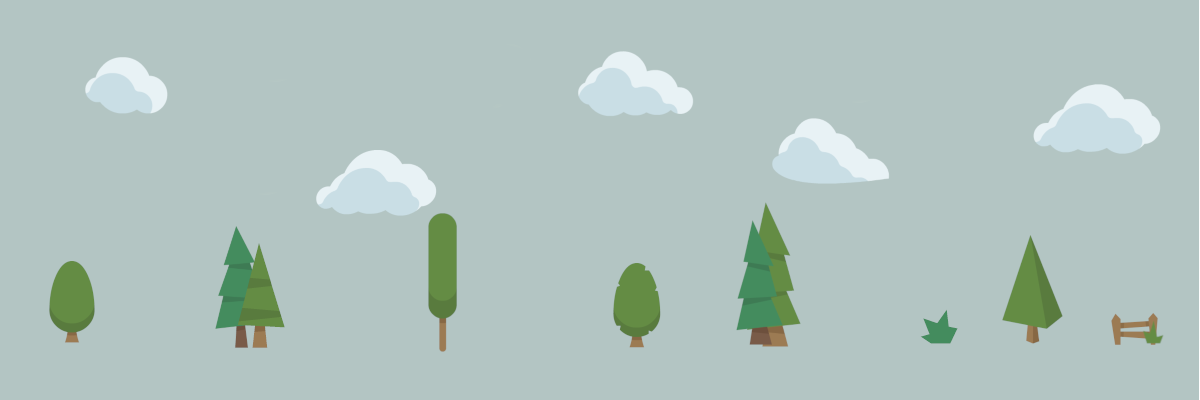
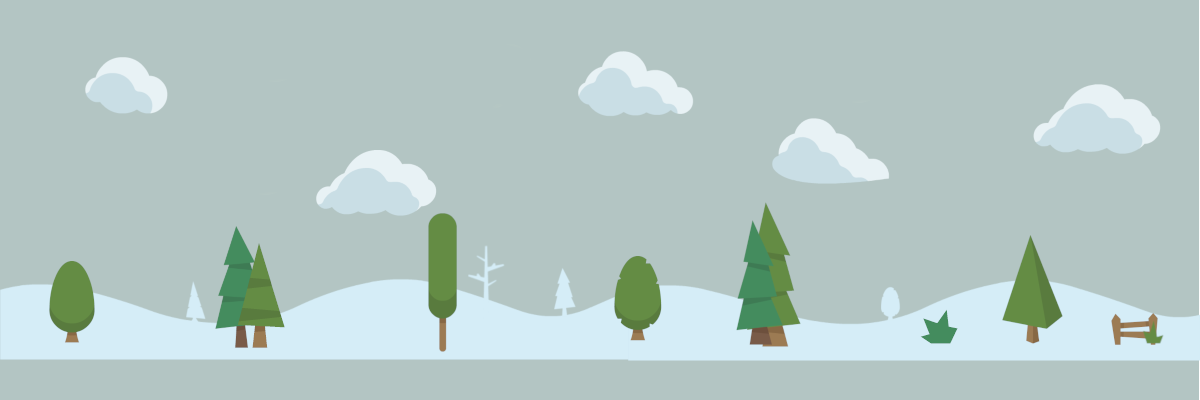
improve green background/environment

Changed region(s): [[0.0, 0.63, 1.0, 0.9]]

diff --git a/spectrum.py b/spectrum.py
@@ -535,7 +535,7 @@ class Tile(pygame.sprite.Sprite):
         pygame.sprite.Sprite.__init__(self)
         self.image = pygame.image.load(image_path).convert()
         #self.image = pygame.transform.scale(self.image, (20,20))  #testing
-        #self.image.set_colorkey([255,255,255])   #testing
+        self.image.set_colorkey([255,255,255])  #sets white to transparent
         self.rect = self.image.get_rect()
         self.rect.x = x
         self.rect.y = y
